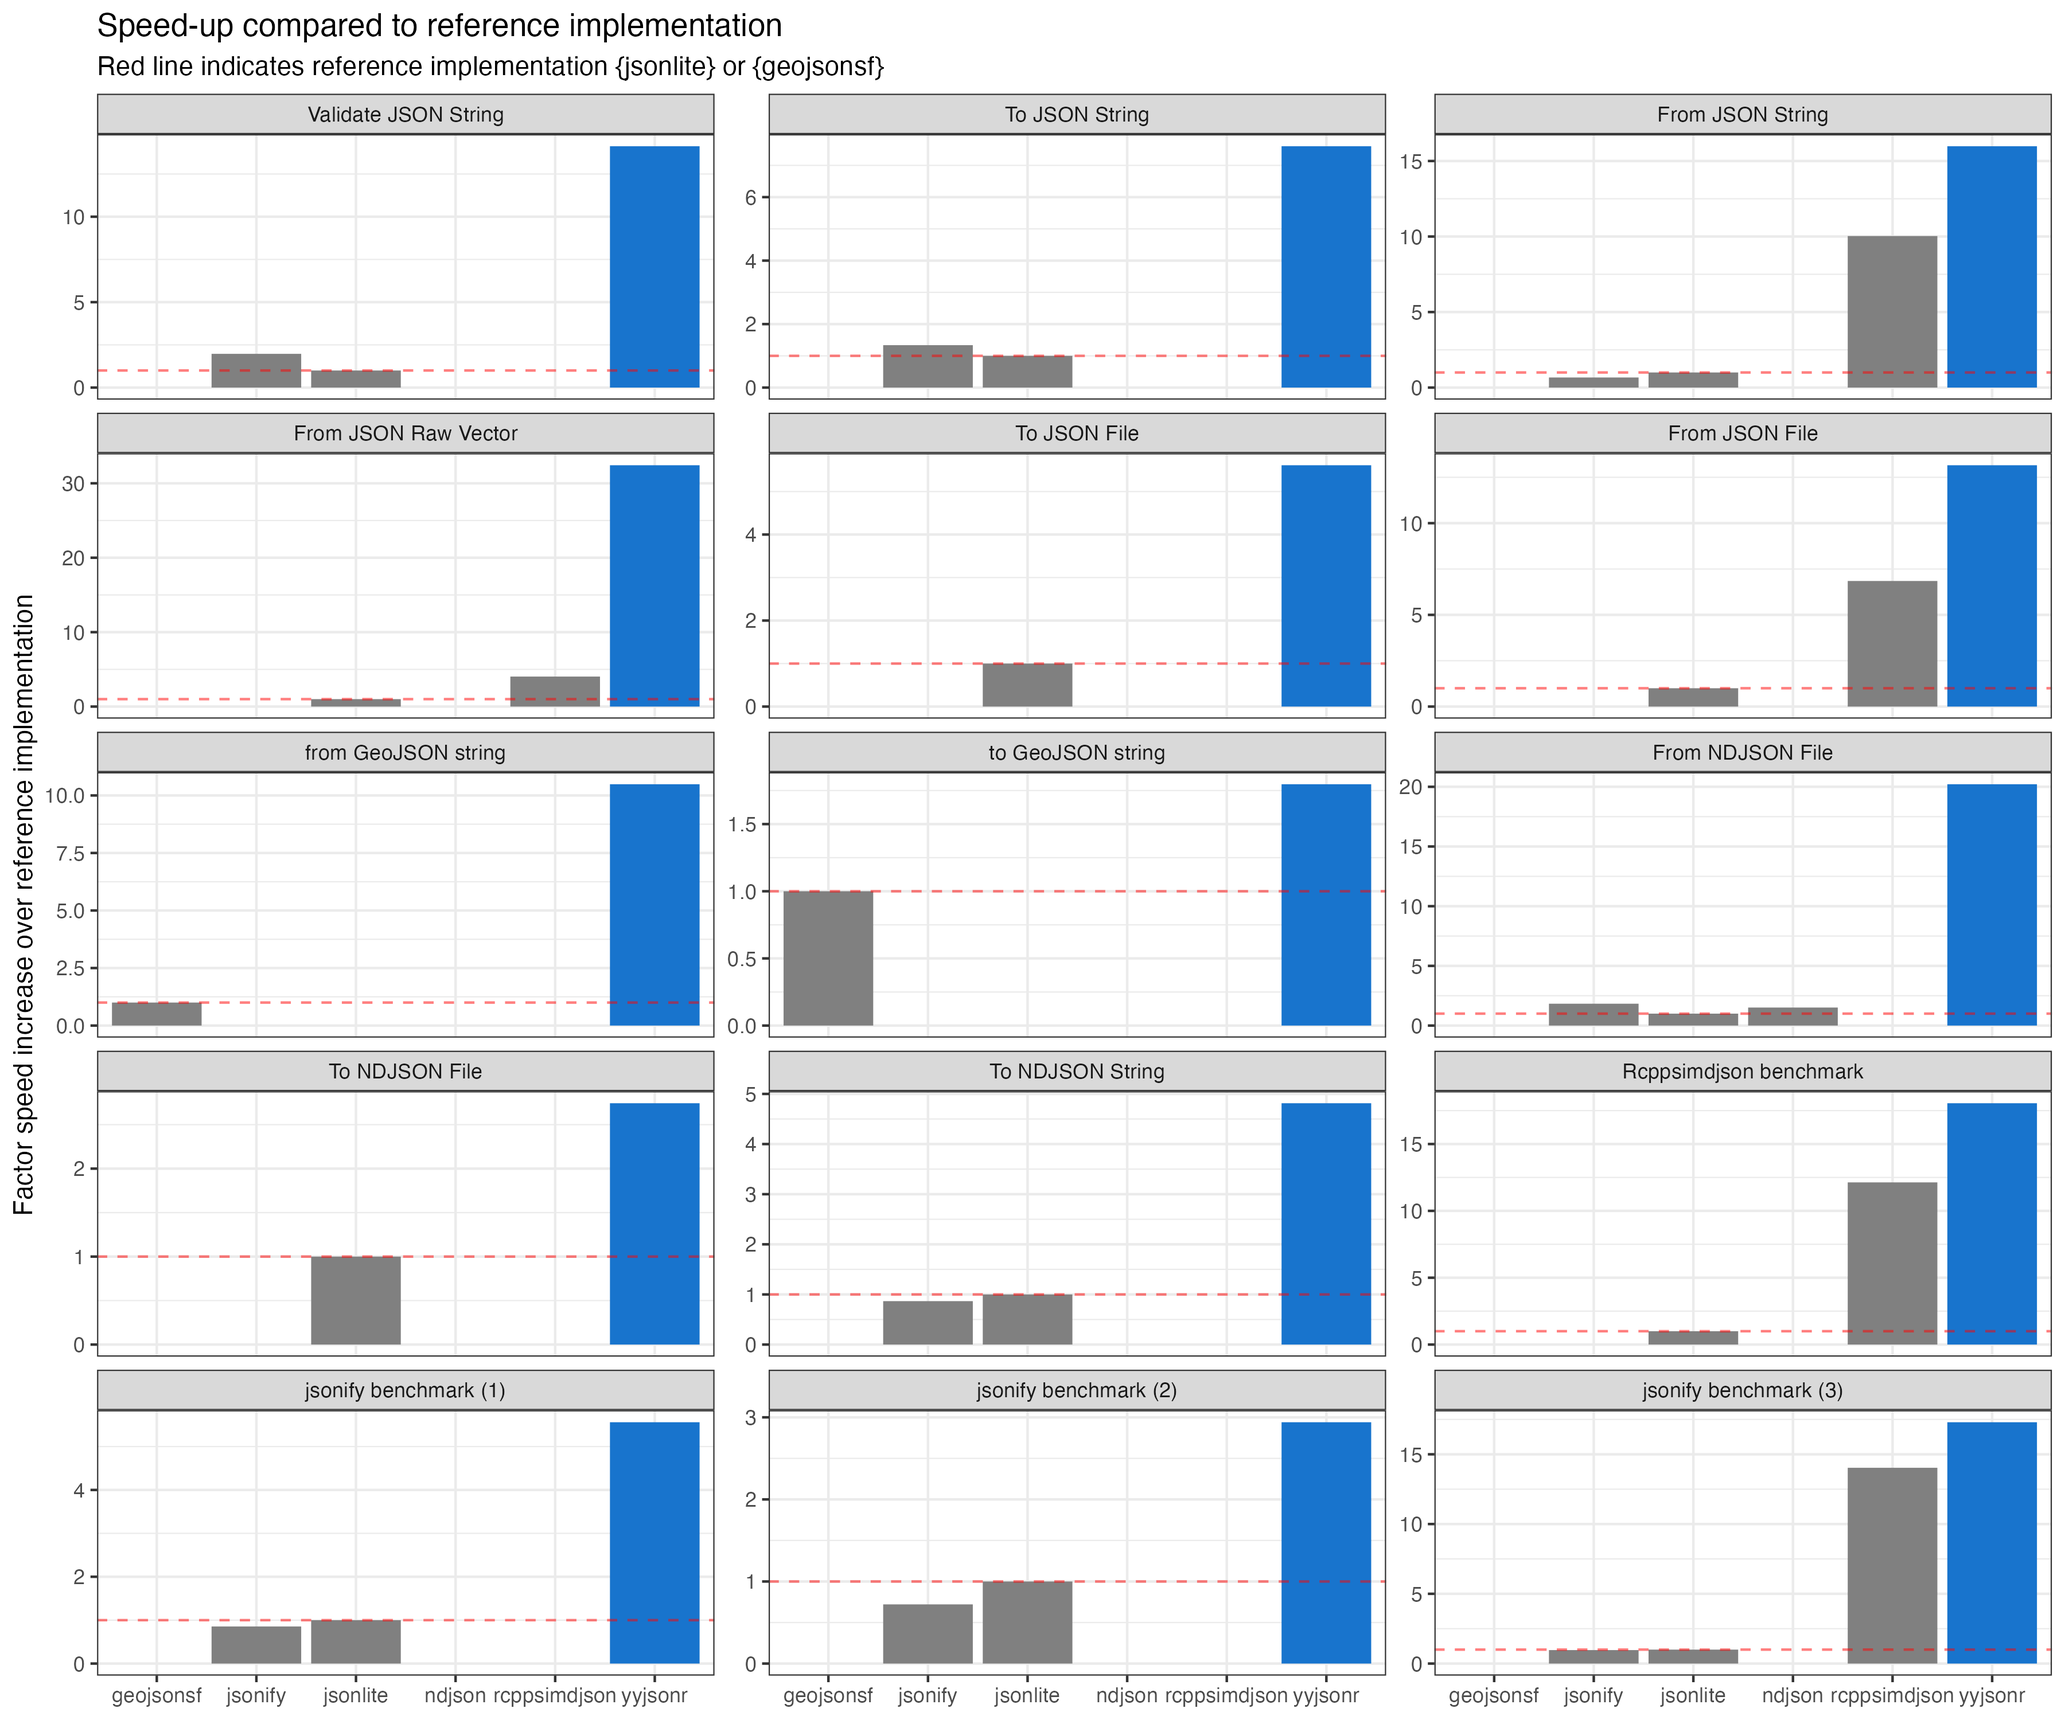
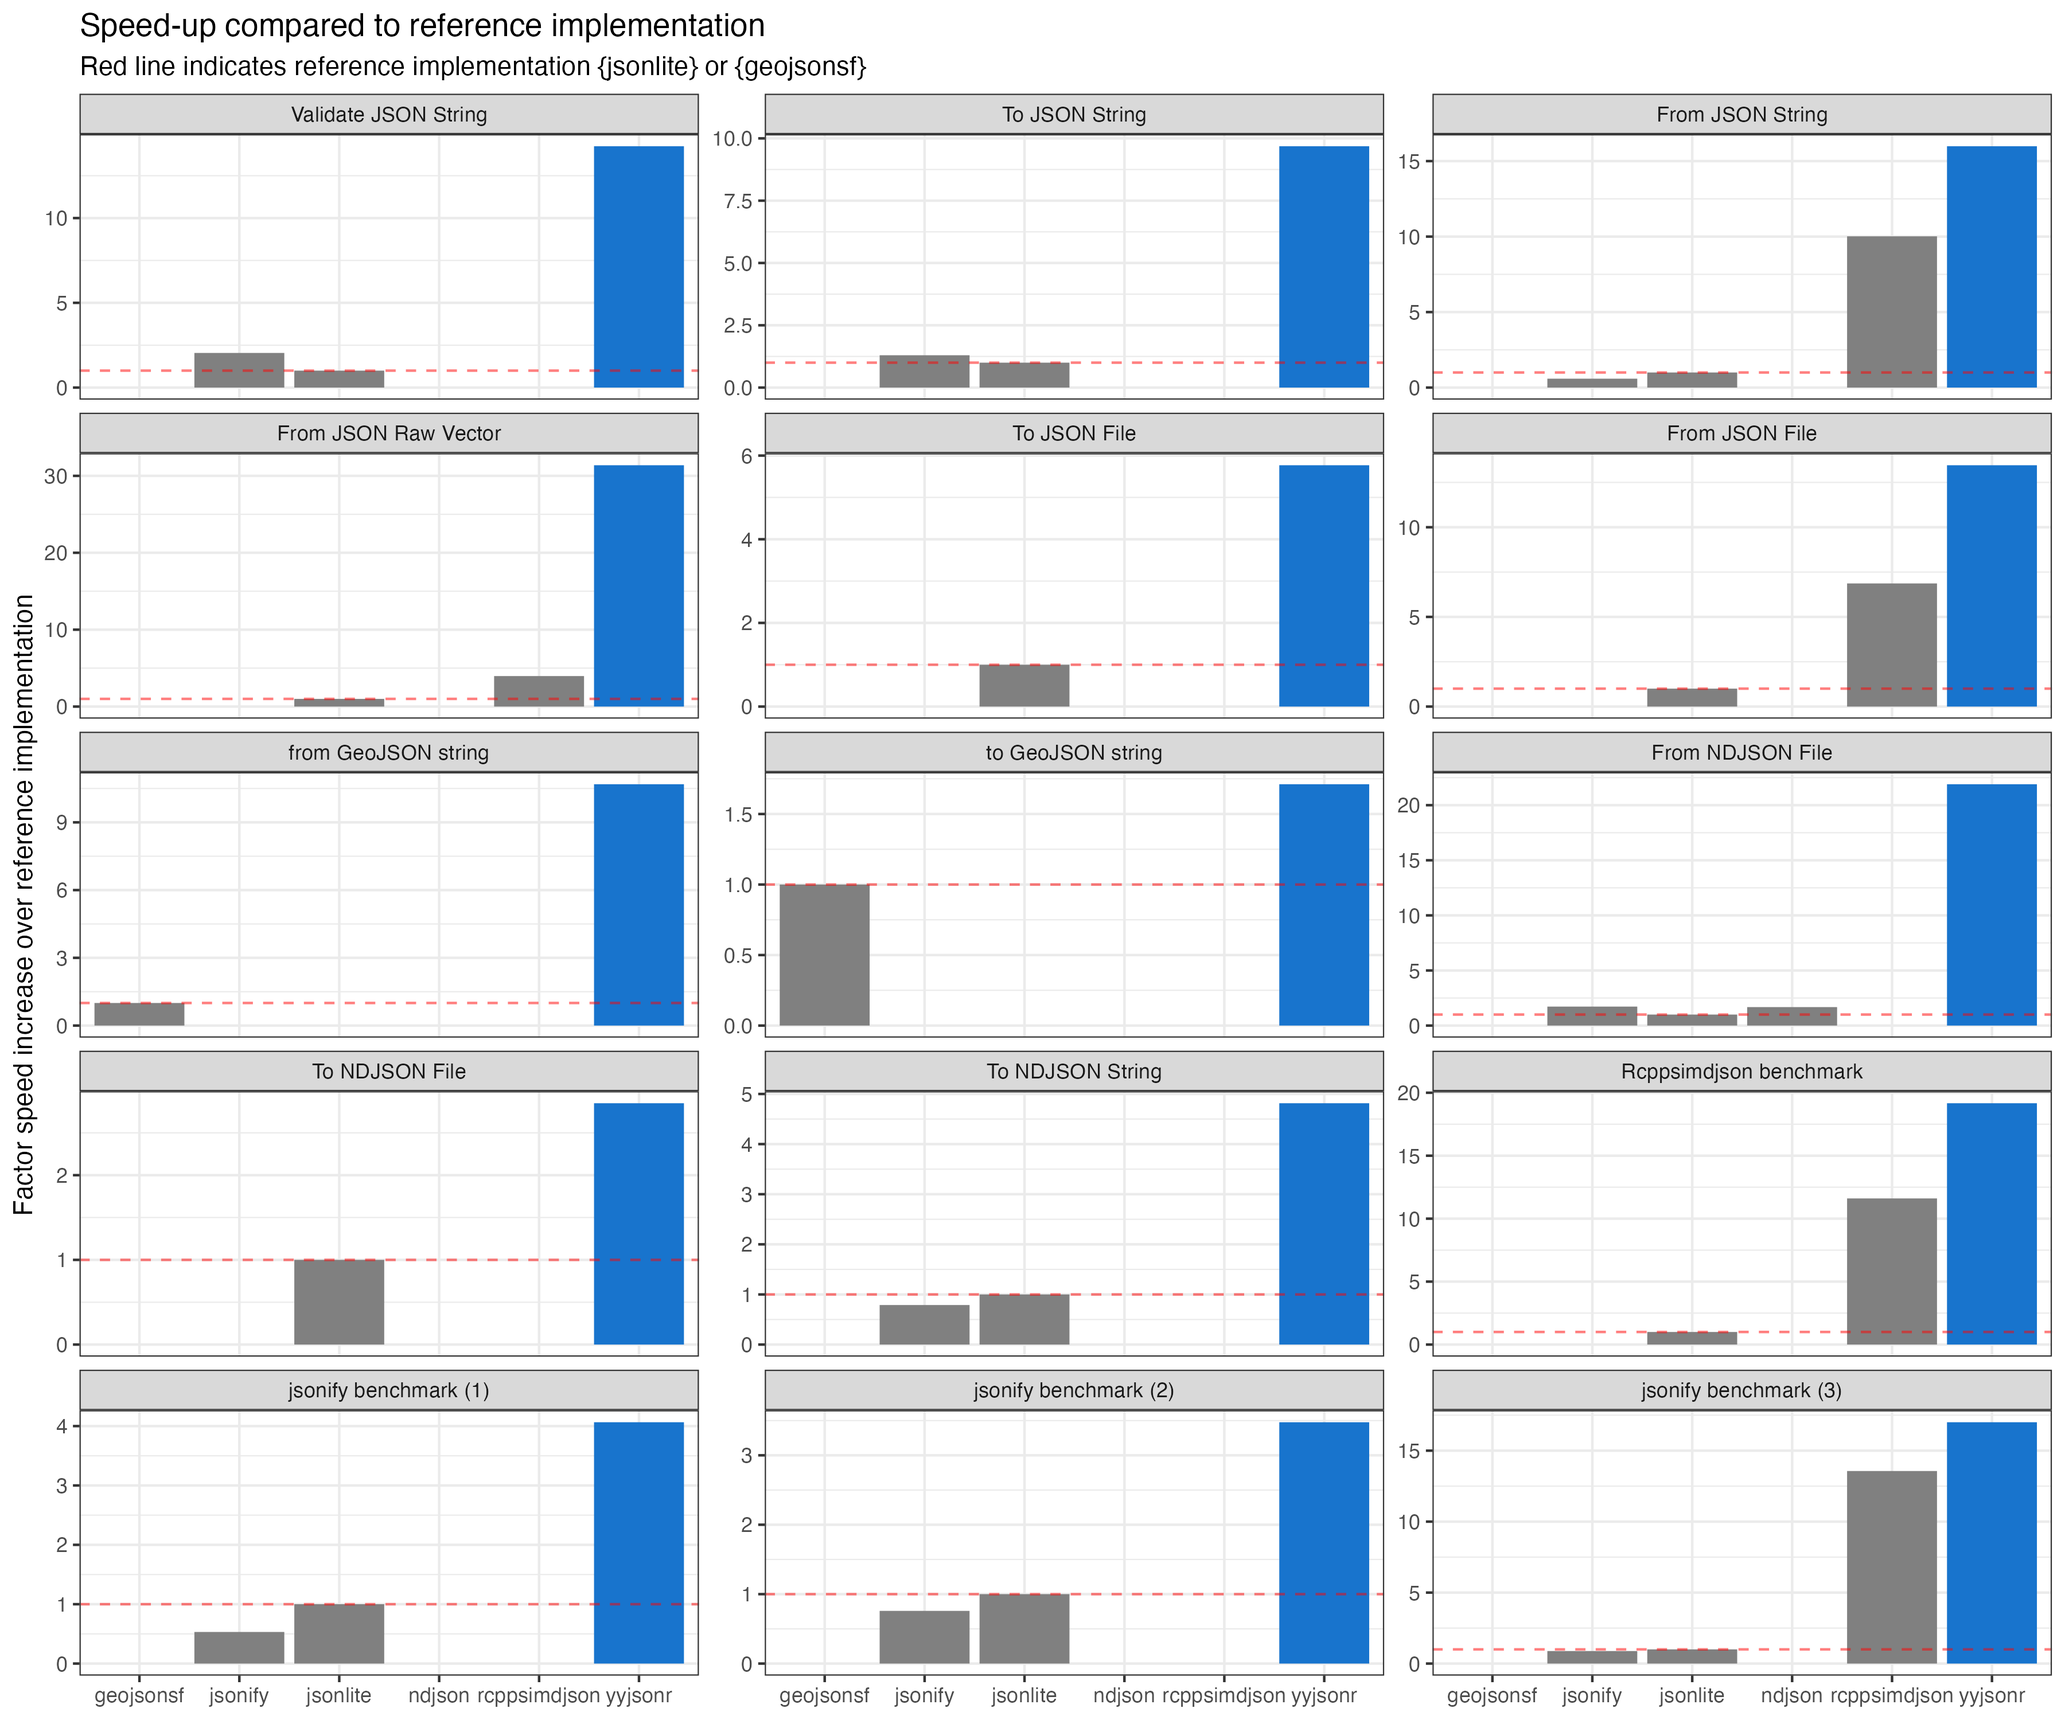
cache df col types for faster serialization

diff --git a/src/R-yyjson-serialize.c b/src/R-yyjson-serialize.c
@@ -14,6 +14,7 @@
 #include "R-yyjson-serialize.h"
 
 
+
 //===========================================================================
 // Parse the options from R list into a C struct
 //===========================================================================
@@ -777,7 +778,72 @@ int is_named_list(SEXP list_) {
 //      add key/value to obj
 //    add obj to array
 //===========================================================================
-yyjson_mut_val *data_frame_row_to_json_object(SEXP df_, unsigned int row, int skip_col, yyjson_mut_doc *doc, serialize_options *opt) {
+unsigned int *detect_data_frame_types(SEXP df_, serialize_options *opt) {
+  
+  unsigned int ncols = length(df_);
+  unsigned int *col_type;
+  
+  col_type = (unsigned int *)malloc(ncols * sizeof(unsigned int));
+  if (col_type == NULL) {
+    error("Couldn't allocate in detect_data_frame_types()");
+  }
+  
+  for (int col = 0; col < ncols; col++) {
+    SEXP col_ = VECTOR_ELT(df_, col);
+    
+    switch(TYPEOF(col_)) {
+    case LGLSXP:
+      col_type[col] = LGLSXP;
+      break;
+    case INTSXP:
+      if (isFactor(col_)) {
+        col_type[col] = INTSXP_FACTOR;
+      } else if (inherits(col_, "Date")) {
+        col_type[col] = INTSXP_DATE;
+      } else if (inherits(col_, "POSIXct")) {
+        col_type[col] = INTSXP_POSIXCT;
+      } else {
+        col_type[col] = INTSXP;
+      }
+      break;
+    case REALSXP: {
+      if (inherits(col_, "Date")) {
+      col_type[col] = REALSXP_DATE;
+    } else if (inherits(col_, "POSIXct")) {
+      col_type[col] = REALSXP_POSIXCT;
+    } else if (inherits(col_, "integer64")) {
+      col_type[col] = REALSXP_INT64;
+    } else {
+      col_type[col] = REALSXP;
+    }
+    }
+      break;
+    case STRSXP: {
+      col_type[col] = STRSXP;
+    }
+      break;
+    case VECSXP: {
+      if (inherits(col_, "data.frame")) {
+      col_type[col] = VECSXP_DF;
+    } else {
+      col_type[col] = VECSXP;
+    }
+    }
+      break;
+    case RAWSXP:
+      col_type[col] = RAWSXP;
+      break;
+    default:
+      error("detect_data_frame_types(): Unhandled scalar SEXP: %s\n", type2char(TYPEOF(col_)));
+    }
+  }
+  
+  return col_type;
+}
+
+
+
+yyjson_mut_val *data_frame_row_to_json_object(SEXP df_, unsigned int *col_type, unsigned int row, int skip_col, yyjson_mut_doc *doc, serialize_options *opt) {
   
   // get data.frame names
   SEXP nms_ = getAttrib(df_, R_NamesSymbol);
@@ -792,50 +858,48 @@ yyjson_mut_val *data_frame_row_to_json_object(SEXP df_, unsigned int row, int sk
     yyjson_mut_val *val;
     SEXP col_ = VECTOR_ELT(df_, col);
     
-    switch(TYPEOF(col_)) {
+    switch(col_type[col]) {
     case LGLSXP:
       val = scalar_logical_to_json_val(INTEGER(col_)[row], doc, opt);
       break;
     case INTSXP:
-      if (isFactor(col_)) {
-        val = scalar_factor_to_json_val(col_, row, doc, opt);
-      } else if (inherits(col_, "Date")) {
-        val = scalar_date_to_json_val(col_, row, doc, opt);
-      } else if (inherits(col_, "POSIXct")) {
-        val = scalar_posixct_to_json_val(col_, row, doc, opt);
-      } else {
-        val = scalar_integer_to_json_val(INTEGER(col_)[row], doc, opt);
-      }
+      val = scalar_integer_to_json_val(INTEGER(col_)[row], doc, opt);
       break;
-    case REALSXP: {
-      if (inherits(col_, "Date")) {
+    case INTSXP_FACTOR:
+      val = scalar_factor_to_json_val(col_, row, doc, opt);
+      break;
+    case INTSXP_DATE:
       val = scalar_date_to_json_val(col_, row, doc, opt);
-    } else if (inherits(col_, "POSIXct")) {
+      break;
+    case INTSXP_POSIXCT:
       val = scalar_posixct_to_json_val(col_, row, doc, opt);
-    } else if (inherits(col_, "integer64")) {
-      val = scalar_integer64_to_json_val(col_, row, doc, opt);
-    } else {
+      break;
+    case REALSXP: 
       val = scalar_double_to_json_val(REAL(col_)[row], doc, opt);
-    }
-    }
       break;
-    case STRSXP: {
+    case REALSXP_DATE:
+      val = scalar_date_to_json_val(col_, row, doc, opt);
+      break;
+    case REALSXP_POSIXCT:
+      val = scalar_posixct_to_json_val(col_, row, doc, opt);
+      break;
+    case REALSXP_INT64:
+      val = scalar_integer64_to_json_val(col_, row, doc, opt);
+      break;
+    case STRSXP: 
       val = scalar_strsxp_to_json_val(col_, row, doc, opt);
-    }
       break;
-    case VECSXP: {
-      if (inherits(col_, "data.frame")) {
-      val = data_frame_row_to_json_object(col_, row, -1, doc, opt);
-    } else {
+    case VECSXP: 
       val = serialize_core(VECTOR_ELT(col_, row), doc, opt);
-    }
-    }
+      break;
+    case VECSXP_DF:
+      val = data_frame_row_to_json_object(col_, col_type, row, -1, doc, opt);
       break;
     case RAWSXP:
       val = scalar_rawsxp_to_json_val(col_, row, doc, opt);
       break;
     default:
-      error("data_frame_row_to_json_object(): Unhandled scalar SEXP: %s\n", type2char(TYPEOF(col_)));
+      error("data_frame_row_to_json_object(): Unhandled scalar SEXP/col_type: %s [%i]\n", type2char(TYPEOF(col_)), col_type[col]);
     }
     // Add value to row obj
     if (val != NULL) {
@@ -848,7 +912,7 @@ yyjson_mut_val *data_frame_row_to_json_object(SEXP df_, unsigned int row, int sk
 
 
 //===========================================================================
-yyjson_mut_val *data_frame_row_to_json_array(SEXP df_, unsigned int row, int skip_col, yyjson_mut_doc *doc, serialize_options *opt) {
+yyjson_mut_val *data_frame_row_to_json_array(SEXP df_, unsigned int *col_type, unsigned int row, int skip_col, yyjson_mut_doc *doc, serialize_options *opt) {
   
   // get data.frame names
   unsigned int ncols = length(df_);
@@ -860,50 +924,48 @@ yyjson_mut_val *data_frame_row_to_json_array(SEXP df_, unsigned int row, int ski
     yyjson_mut_val *val;
     SEXP col_ = VECTOR_ELT(df_, col);
     
-    switch(TYPEOF(col_)) {
+    switch(col_type[col]) {
     case LGLSXP:
       val = scalar_logical_to_json_val(INTEGER(col_)[row], doc, opt);
       break;
     case INTSXP:
-      if (isFactor(col_)) {
-        val = scalar_factor_to_json_val(col_, row, doc, opt);
-      } else if (inherits(col_, "Date")) {
-        val = scalar_date_to_json_val(col_, row, doc, opt);
-      } else if (inherits(col_, "POSIXct")) {
-        val = scalar_posixct_to_json_val(col_, row, doc, opt);
-      } else {
-        val = scalar_integer_to_json_val(INTEGER(col_)[row], doc, opt);
-      }
+      val = scalar_integer_to_json_val(INTEGER(col_)[row], doc, opt);
       break;
-    case REALSXP: {
-      if (inherits(col_, "Date")) {
+    case INTSXP_FACTOR:
+      val = scalar_factor_to_json_val(col_, row, doc, opt);
+      break;
+    case INTSXP_DATE:
       val = scalar_date_to_json_val(col_, row, doc, opt);
-    } else if (inherits(col_, "POSIXct")) {
+      break;
+    case INTSXP_POSIXCT:
       val = scalar_posixct_to_json_val(col_, row, doc, opt);
-    } else if (inherits(col_, "integer64")) {
-      val = scalar_integer64_to_json_val(col_, row, doc, opt);
-    } else {
+      break;
+    case REALSXP: 
       val = scalar_double_to_json_val(REAL(col_)[row], doc, opt);
-    }
-    }
       break;
-    case STRSXP: {
+    case REALSXP_DATE:
+      val = scalar_date_to_json_val(col_, row, doc, opt);
+      break;
+    case REALSXP_POSIXCT:
+      val = scalar_posixct_to_json_val(col_, row, doc, opt);
+      break;
+    case REALSXP_INT64:
+      val = scalar_integer64_to_json_val(col_, row, doc, opt);
+      break;
+    case STRSXP: 
       val = scalar_strsxp_to_json_val(col_, row, doc, opt);
-    }
       break;
-    case VECSXP: {
-      if (inherits(col_, "data.frame")) {
-      val = data_frame_row_to_json_object(col_, row, -1, doc, opt);
-    } else {
+    case VECSXP: 
       val = serialize_core(VECTOR_ELT(col_, row), doc, opt);
-    }
-    }
+      break;
+    case VECSXP_DF:
+      val = data_frame_row_to_json_object(col_, col_type, row, -1, doc, opt);
       break;
     case RAWSXP:
       val = scalar_rawsxp_to_json_val(col_, row, doc, opt);
       break;
     default:
-      error("data_frame_row_to_json_array(): Unhandled scalar SEXP: %s\n", type2char(TYPEOF(col_)));
+      error("data_frame_row_to_json_object(): Unhandled scalar SEXP/col_type: %s [%i]\n", type2char(TYPEOF(col_)), col_type[col]);
     }
     // Add value to row obj
     if (val != NULL) {
@@ -938,13 +1000,16 @@ yyjson_mut_val *data_frame_to_json_array_of_arrays(SEXP df_, yyjson_mut_doc *doc
   //      add the value to the array
   //   add the array to the overall array
   //~~~~~~~~~~~~~~~~~~~~~~~~~~~~~~~~~~~~~~~~~~~~~~~~~~~~~~~~~~~~~~~~~~~~~~~~~~~
+  unsigned int *col_type = detect_data_frame_types(df_, opt);
   for (int row = 0; row < nrows; row++) {
     
-    yyjson_mut_val *obj = data_frame_row_to_json_array(df_, row, -1, doc, opt);
+    yyjson_mut_val *obj = data_frame_row_to_json_array(df_, col_type, row, -1, doc, opt);
     
     // Add row obj to array
     yyjson_mut_arr_append(arr, obj);
   }
+  
+  free(col_type);
   
   // Return the array of row objects
   return arr;
@@ -986,13 +1051,21 @@ yyjson_mut_val *data_frame_to_json_array_of_objects(SEXP df_, yyjson_mut_doc *do
   //   Need a solid benchmark before I start this.
   //   Mike 2023-08-13
   //~~~~~~~~~~~~~~~~~~~~~~~~~~~~~~~~~~~~~~~~~~~~~~~~~~~~~~~~~~~~~~~~~~~~~~~~~~~
+  unsigned int *col_type = detect_data_frame_types(df_, opt);
+  
+  // for (int i = 0; i < length(df_); i++) {
+  //   Rprintf("Col %i: %i\n", i, col_type[i]);
+  // }
+  
   for (int row = 0; row < nrows; row++) {
  
-    yyjson_mut_val *obj = data_frame_row_to_json_object(df_, row, -1, doc, opt);
+    yyjson_mut_val *obj = data_frame_row_to_json_object(df_, col_type, row, -1, doc, opt);
 
     // Add row obj to array
     yyjson_mut_arr_append(arr, obj);
   }
+  
+  free(col_type);
   
   // Return the array of row objects
   return arr;

diff --git a/src/R-yyjson-serialize.h b/src/R-yyjson-serialize.h
@@ -17,6 +17,51 @@
 #define NAME_REPAIR_NONE    0
 #define NAME_REPAIR_MINIMAL 1
 
+
+
+//~~~~~~~~~~~~~~~~~~~~~~~~~~~~~~~~~~~~~~~~~~~~~~~~~~~~~~~~~~~~~~~~~~~~~~~~~~~
+// Existing SEXPs
+//   0	NILSXP	NULL
+//   1	SYMSXP	symbols
+//   2	LISTSXP	pairlists
+//   3	CLOSXP	closures
+//   4	ENVSXP	environments
+//   5	PROMSXP	promises
+//   6	LANGSXP	language objects
+//   7	SPECIALSXP	special functions
+//   8	BUILTINSXP	builtin functions
+//   9	CHARSXP	internal character strings
+//  10	LGLSXP	logical vectors
+//  13	INTSXP	integer vectors
+//  14	REALSXP	numeric vectors
+//  15	CPLXSXP	complex vectors
+//  16	STRSXP	character vectors
+//  17	DOTSXP	dot-dot-dot object
+//  18	ANYSXP	make “any” args work
+//  19	VECSXP	list (generic vector)
+//  20	EXPRSXP	expression vector
+//  21	BCODESXP	byte code
+//  22	EXTPTRSXP	external pointer
+//  23	WEAKREFSXP	weak reference
+//  24	RAWSXP	raw vector
+//  25	S4SXP	S4 classes not of simple type
+//
+// Extra types to handle special types
+//
+//  INT64SXP -
+//     Can decide what to allocate by testing for (INT64SXP & REALSXP)
+//~~~~~~~~~~~~~~~~~~~~~~~~~~~~~~~~~~~~~~~~~~~~~~~~~~~~~~~~~~~~~~~~~~~~~~~~~~~
+#define INTSXP_FACTOR   32
+#define INTSXP_DATE     33
+#define INTSXP_POSIXCT  34
+#define REALSXP_DATE    35
+#define REALSXP_POSIXCT 36
+#define REALSXP_INT64   37
+#define VECSXP_DF       38  // A list column which actually has type = data.frame
+
+
+
+
 //~~~~~~~~~~~~~~~~~~~~~~~~~~~~~~~~~~~~~~~~~~~~~~~~~~~~~~~~~~~~~~~~~~~~~~~~~~~
 // Serialize options struct
 //~~~~~~~~~~~~~~~~~~~~~~~~~~~~~~~~~~~~~~~~~~~~~~~~~~~~~~~~~~~~~~~~~~~~~~~~~~~
@@ -46,4 +91,5 @@ yyjson_mut_val *scalar_factor_to_json_val(SEXP factor_, unsigned int idx,  yyjso
 yyjson_mut_val *scalar_double_to_json_val(double rdbl, yyjson_mut_doc *doc, serialize_options *opt);
 yyjson_mut_val *scalar_strsxp_to_json_val(SEXP str_, unsigned int idx, yyjson_mut_doc *doc, serialize_options *opt);
 
-yyjson_mut_val *data_frame_row_to_json_object(SEXP df_, unsigned int row, int skip_col, yyjson_mut_doc *doc, serialize_options *opt);
+yyjson_mut_val *data_frame_row_to_json_object(SEXP df_, unsigned int *col_type, unsigned int row, int skip_col, yyjson_mut_doc *doc, serialize_options *opt);
+unsigned int *detect_data_frame_types(SEXP df_, serialize_options *opt);

diff --git a/src/geojson-serialize.c b/src/geojson-serialize.c
@@ -202,9 +202,10 @@ yyjson_mut_doc *sf_to_json(SEXP sf_, geo_serialize_options *opt) {
   //    - add it to the features JSON []-array
   //~~~~~~~~~~~~~~~~~~~~~~~~~~~~~~~~~~~~~~~~~~~~~~~~~~~~~~~~~~~~~~~~~~~~~~~~~~~
   yyjson_mut_val *features = yyjson_mut_arr(doc);
+  unsigned int *col_type = detect_data_frame_types(sf_, opt->serialize_opt);
   
   for (unsigned int row = 0; row < nrow; row++) {
-    yyjson_mut_val *properties = data_frame_row_to_json_object(sf_, row, geom_col_idx, doc, opt->serialize_opt);
+    yyjson_mut_val *properties = data_frame_row_to_json_object(sf_, col_type, row, geom_col_idx, doc, opt->serialize_opt);
     yyjson_mut_val *geometry = serialize_geom(VECTOR_ELT(geom_col_, row), doc, opt);
     yyjson_mut_val *feature = yyjson_mut_obj(doc);
     yyjson_mut_obj_add_str(doc, feature, "type", "Feature");

diff --git a/NEWS.md b/NEWS.md
@@ -1,4 +1,10 @@
 
+
+# yyjsonr 0.1.9 2023-09-13
+
+* Added pre-calculation and caching of data.frame column types for faster
+  serialization when outputting row-by-row.
+
 # yyjsonr 0.1.8 2023-09-12
 
 * Added `path.expand()` when handling filenames. Thanks to
